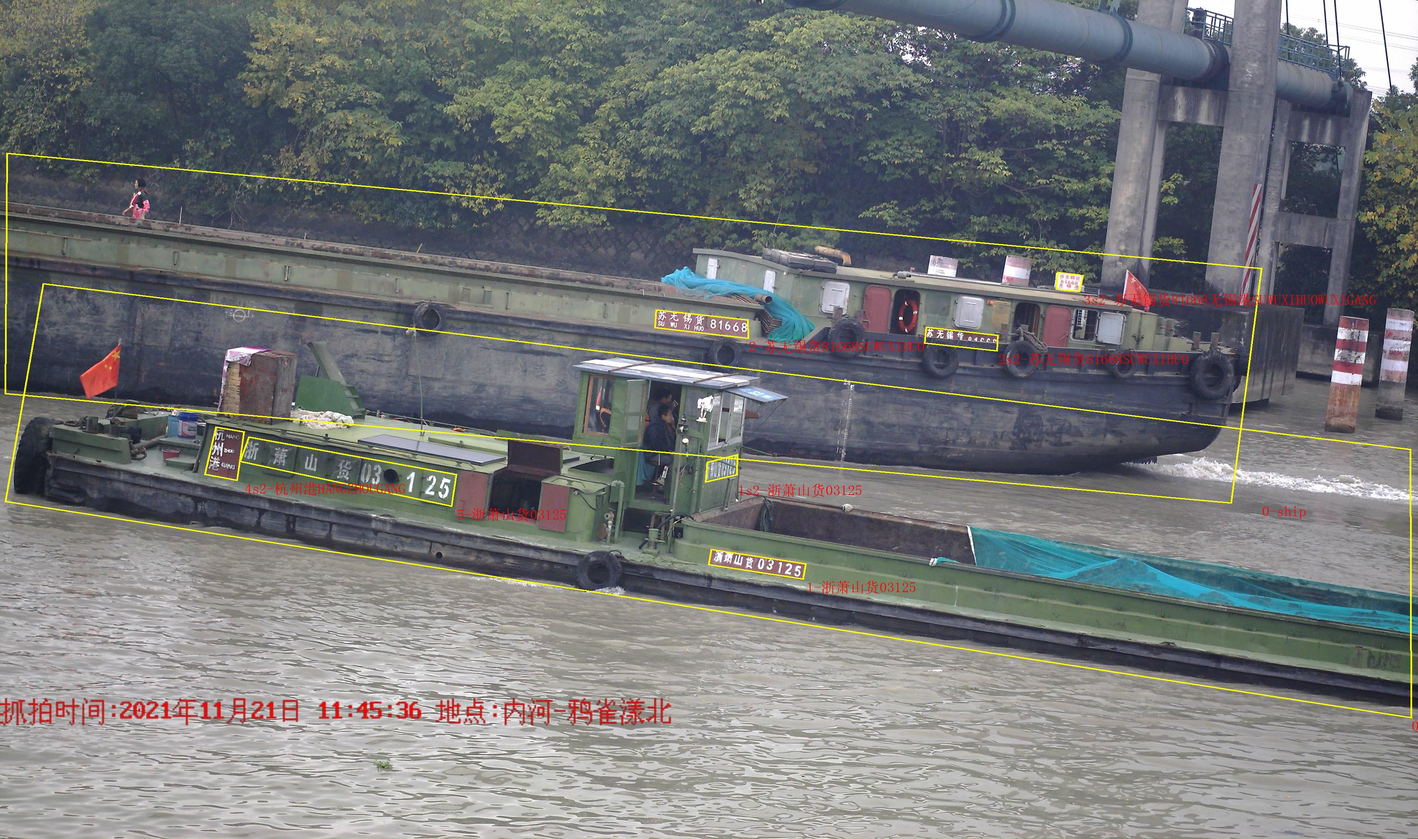
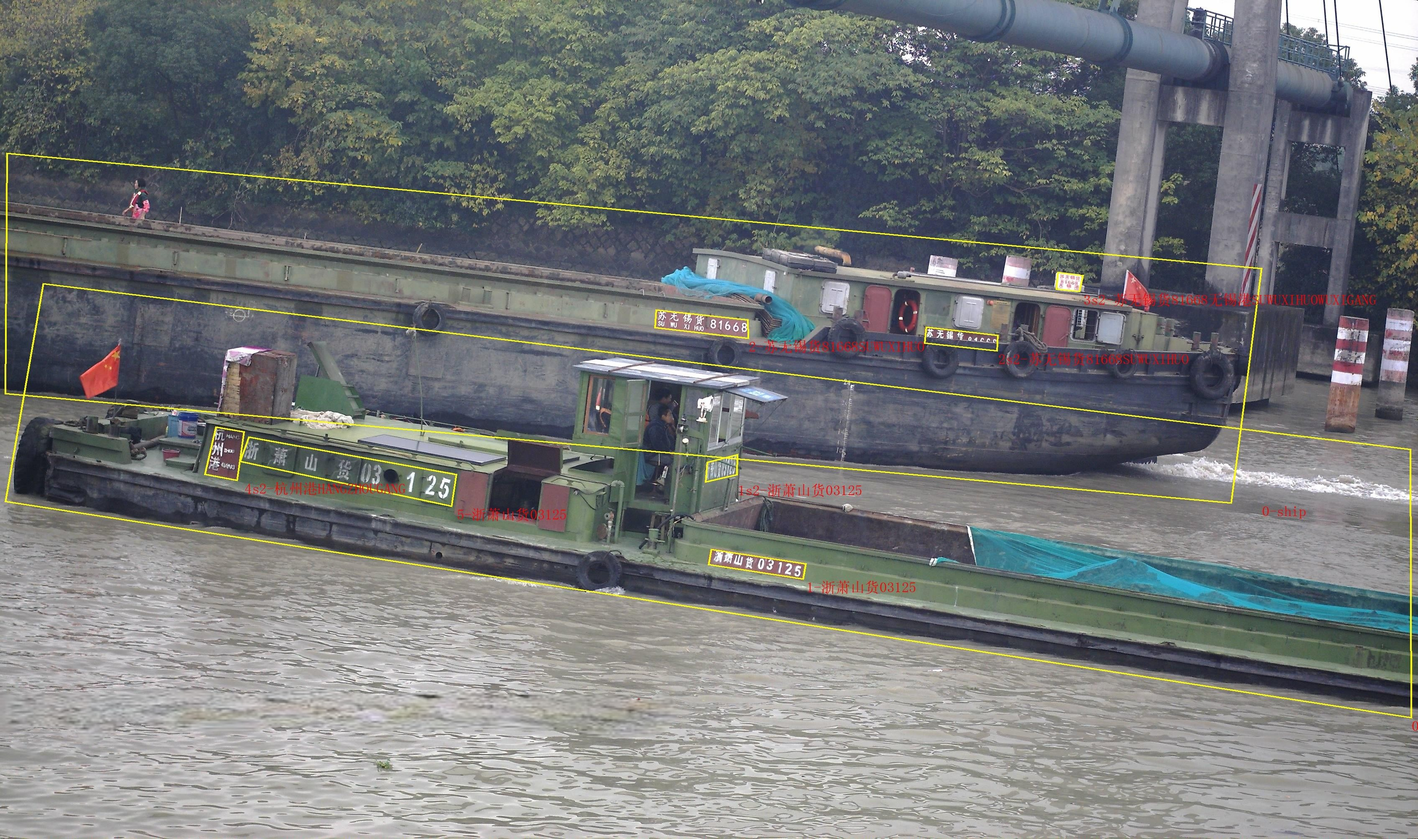
remove watermark

diff --git a/index.html b/index.html
@@ -231,35 +231,43 @@
                 <div id="carouselExampleIndicators_preview" class="carousel slide" style="margin: auto;">
                     <div class="carousel-inner">
                         <div class="carousel-item active">
-                            <img src="imgs/O_20220102_16_41_48_437250.jpg" class="d-block w-100" alt="...">
+                            <!-- <img src="imgs/O_20220102_16_41_48_437250.jpg" class="d-block w-100" alt="..."> -->
+                            <img src="imgs/O_20220102_16_41_48_437250_result.png" class="d-block w-100" alt="...">
                             <!-- <div class="image-title">Clarity pairs</div> -->
                         </div>
                         <div class="carousel-item ">
-                            <img src="imgs/O_20220107_23_36_26_171875.jpg" class="d-block w-100" alt="...">
+                            <!-- <img src="imgs/O_20220107_23_36_26_171875.jpg" class="d-block w-100" alt="..."> -->
+                            <img src="imgs/O_20220107_23_36_26_171875_result.png" class="d-block w-100" alt="...">
                             <!-- <div class="image-title">Clarity pairs</div> -->
                         </div>
                         <div class="carousel-item ">
-                            <img src="imgs/O_20220108_10_48_03_066875.jpg" class="d-block w-100" alt="...">
+                            <!-- <img src="imgs/O_20220108_10_48_03_066875.jpg" class="d-block w-100" alt="..."> -->
+                            <img src="imgs/O_20220108_10_48_03_066875_result.png" class="d-block w-100" alt="...">
                             <!-- <div class="image-title">Clarity pairs</div> -->
                         </div>
                         <div class="carousel-item ">
-                            <img src="imgs/O_20180706_12_01_09_765625.jpg" class="d-block w-100" alt="...">
+                            <!-- <img src="imgs/O_20180706_12_01_09_765625.jpg" class="d-block w-100" alt="..."> -->
+                            <img src="imgs/O_20180706_12_01_09_765625_result.png" class="d-block w-100" alt="...">
                             <!-- <div class="image-title">Clarity pairs</div> -->
                         </div>
                         <div class="carousel-item ">
-                            <img src="imgs/O_20220519_05_19_15_911475.jpg" class="d-block w-100" alt="...">
+                            <!-- <img src="imgs/O_20220519_05_19_15_911475.jpg" class="d-block w-100" alt="..."> -->
+                            <img src="imgs/O_20220519_05_19_15_911475_result.png" class="d-block w-100" alt="...">
                             <!-- <div class="image-title">Clarity pairs</div> -->
                         </div>
                         <div class="carousel-item ">
-                            <img src="imgs/T_20211201_06_53_48_446553.jpg" class="d-block w-100" alt="...">
+                            <!-- <img src="imgs/T_20211201_06_53_48_446553.jpg" class="d-block w-100" alt="..."> -->
+                            <img src="imgs/T_20211201_06_53_48_446553_result.png" class="d-block w-100" alt="...">
                             <!-- <div class="image-title">Clarity pairs</div> -->
                         </div>
                         <div class="carousel-item ">
-                            <img src="imgs/T_20220601_08_05_10_921875.jpg" class="d-block w-100" alt="...">
+                            <!-- <img src="imgs/T_20220601_08_05_10_921875.jpg" class="d-block w-100" alt="..."> -->
+                            <img src="imgs/T_20220601_08_05_10_921875_result.png" class="d-block w-100" alt="...">
                             <!-- <div class="image-title">Clarity pairs</div> -->
                         </div>
                         <div class="carousel-item ">
-                            <img src="imgs/O_20210816_14_05_41_187500.jpg" class="d-block w-100" alt="...">
+                            <!-- <img src="imgs/O_20210816_14_05_41_187500.jpg" class="d-block w-100" alt="..."> -->
+                            <img src="imgs/O_20210816_14_05_41_187500_result.png" class="d-block w-100" alt="...">
                             <!-- <div class="image-title">Clarity pairs</div> -->
                         </div>
 

diff --git a/app.py b/app.py
@@ -11,8 +11,7 @@ conn = pymysql.connect(
     passwd='YRQ21163x!',
     db='LQText16K',
 )
-
-
+cur = conn.cursor()
 import json
 from decimal import Decimal
 class DecimalEncoder(json.JSONEncoder):
@@ -55,6 +54,7 @@ def index():
         WHERE 
             ip = '{ip_str}'; -- 替换为需要查询的id值
     '''
+    sql_str = f"SELECT COUNT(*) AS id_count FROM ip_record WHERE ip = '{ip_str}';"
     cur.execute(sql_str)
     # 获取结果
     result = cur.fetchall()
@@ -112,5 +112,7 @@ def heart():
     return 'Hello'
     
 if __name__ == '__main__':
-    cur = conn.cursor()
+    
     app.run()
+
+# python ~/ai_doctor/on_line/main_server/run_gunicorn.py  --certfile=/usr/local/nginx/conf/cert/9906446_iprecord.heitong.site.pem --keyfile=/usr/local/nginx/conf/cert/9906446_iprecord.heitong.site.key -w 1 -b 172.25.120.75:5000 app:app

diff --git a/README.md b/README.md
@@ -4,3 +4,7 @@ uri: https://baolongliu.github.io/LQText16K/
 
 
 The dataset will be made public along with the paper.
+
+
+
+python ~/ai_doctor/on_line/main_server/run_gunicorn.py  --certfile=/usr/local/nginx/conf/cert/9906446_iprecord.heitong.site.pem --keyfile=/usr/local/nginx/conf/cert/9906446_iprecord.heitong.site.key -w 1 -b 172.25.120.75:5000 app:app
